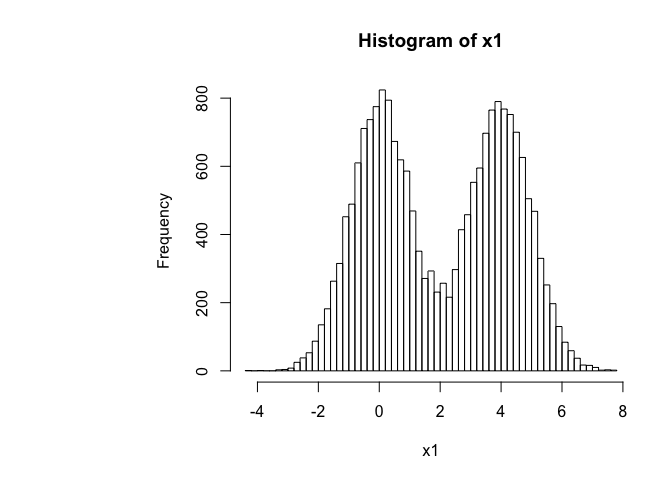
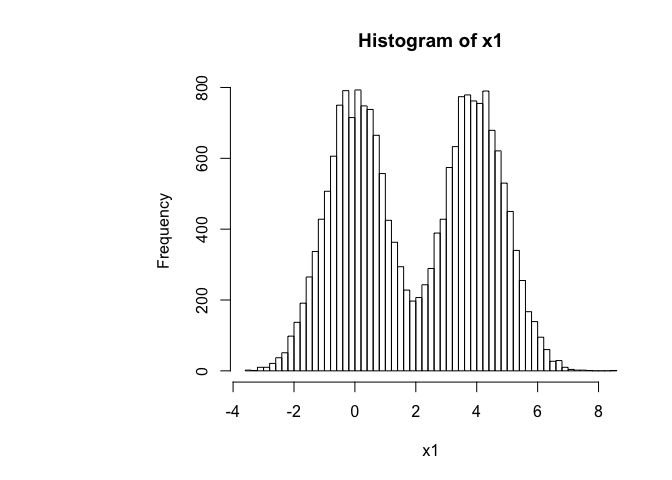
update again to github version

diff --git a/lecture05/class05.md b/lecture05/class05.md
@@ -23,8 +23,8 @@ boxplot(x)
 summary(x)
 ```
 
-    ##     Min.  1st Qu.   Median     Mean  3rd Qu.     Max. 
-    ## -3.70038 -0.65187  0.02631  0.01588  0.68449  3.68658
+    ##      Min.   1st Qu.    Median      Mean   3rd Qu.      Max. 
+    ## -3.307016 -0.663846 -0.026634 -0.005752  0.636856  3.356527
 
 ``` r
 hist(x)
